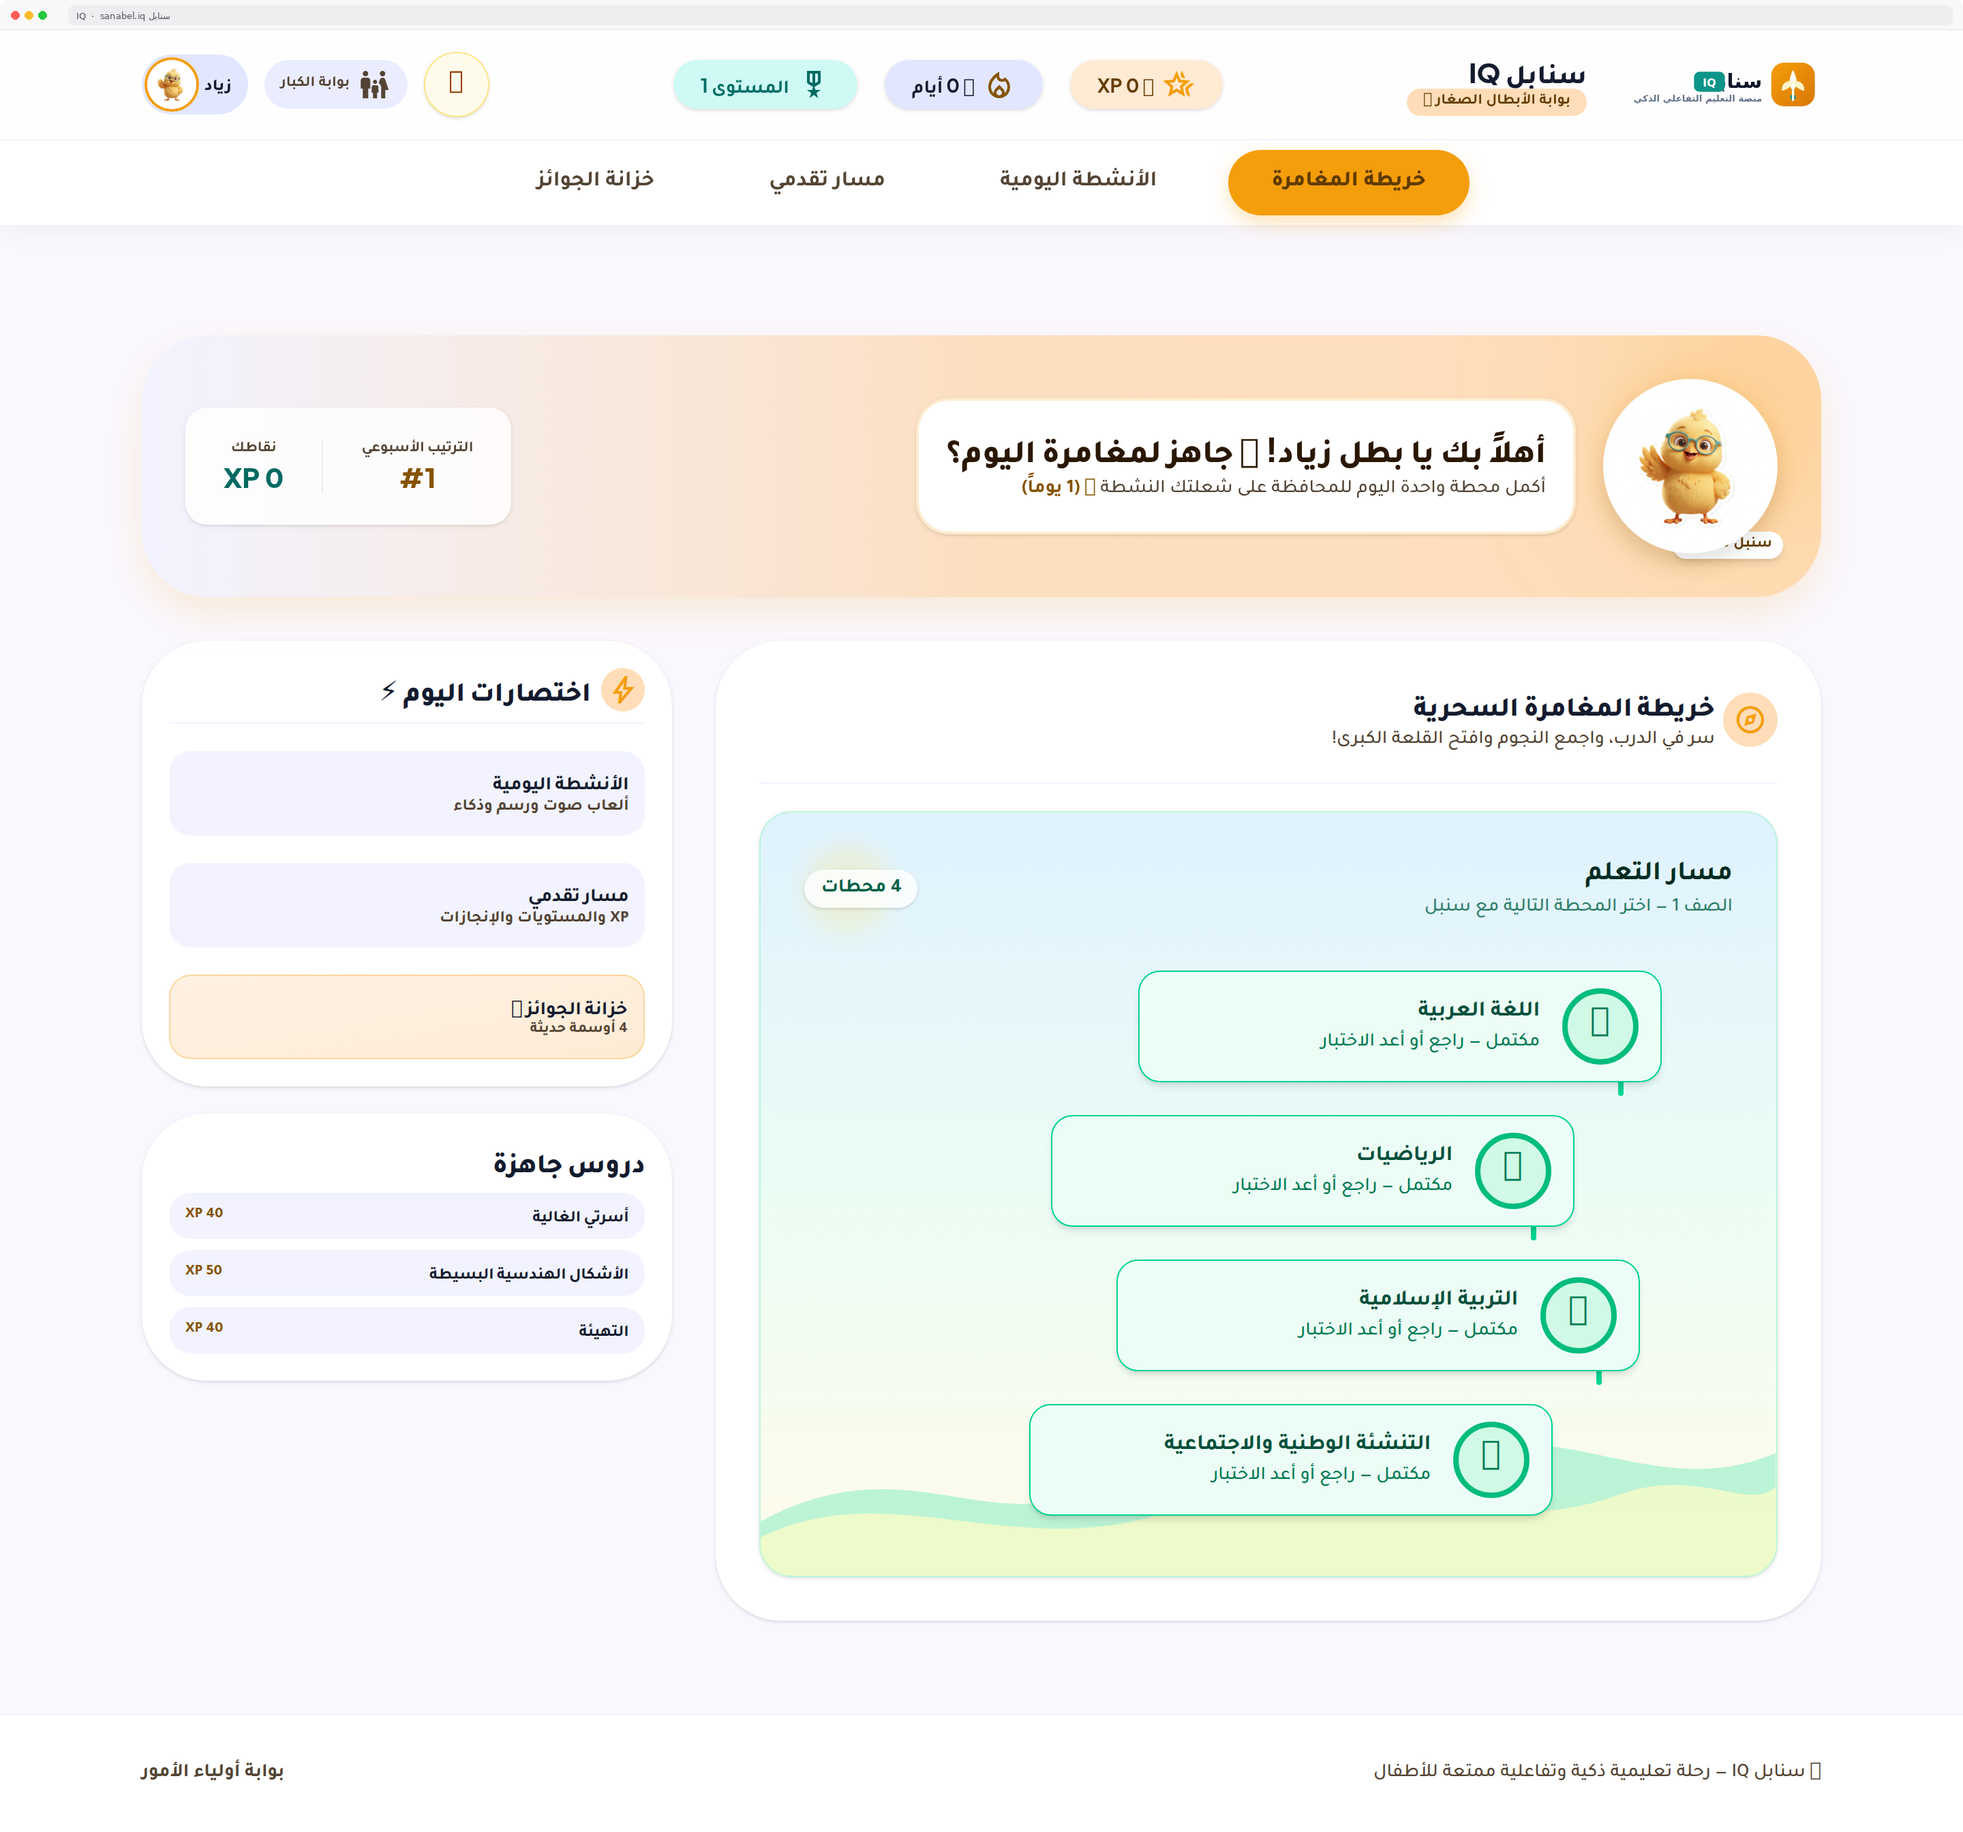
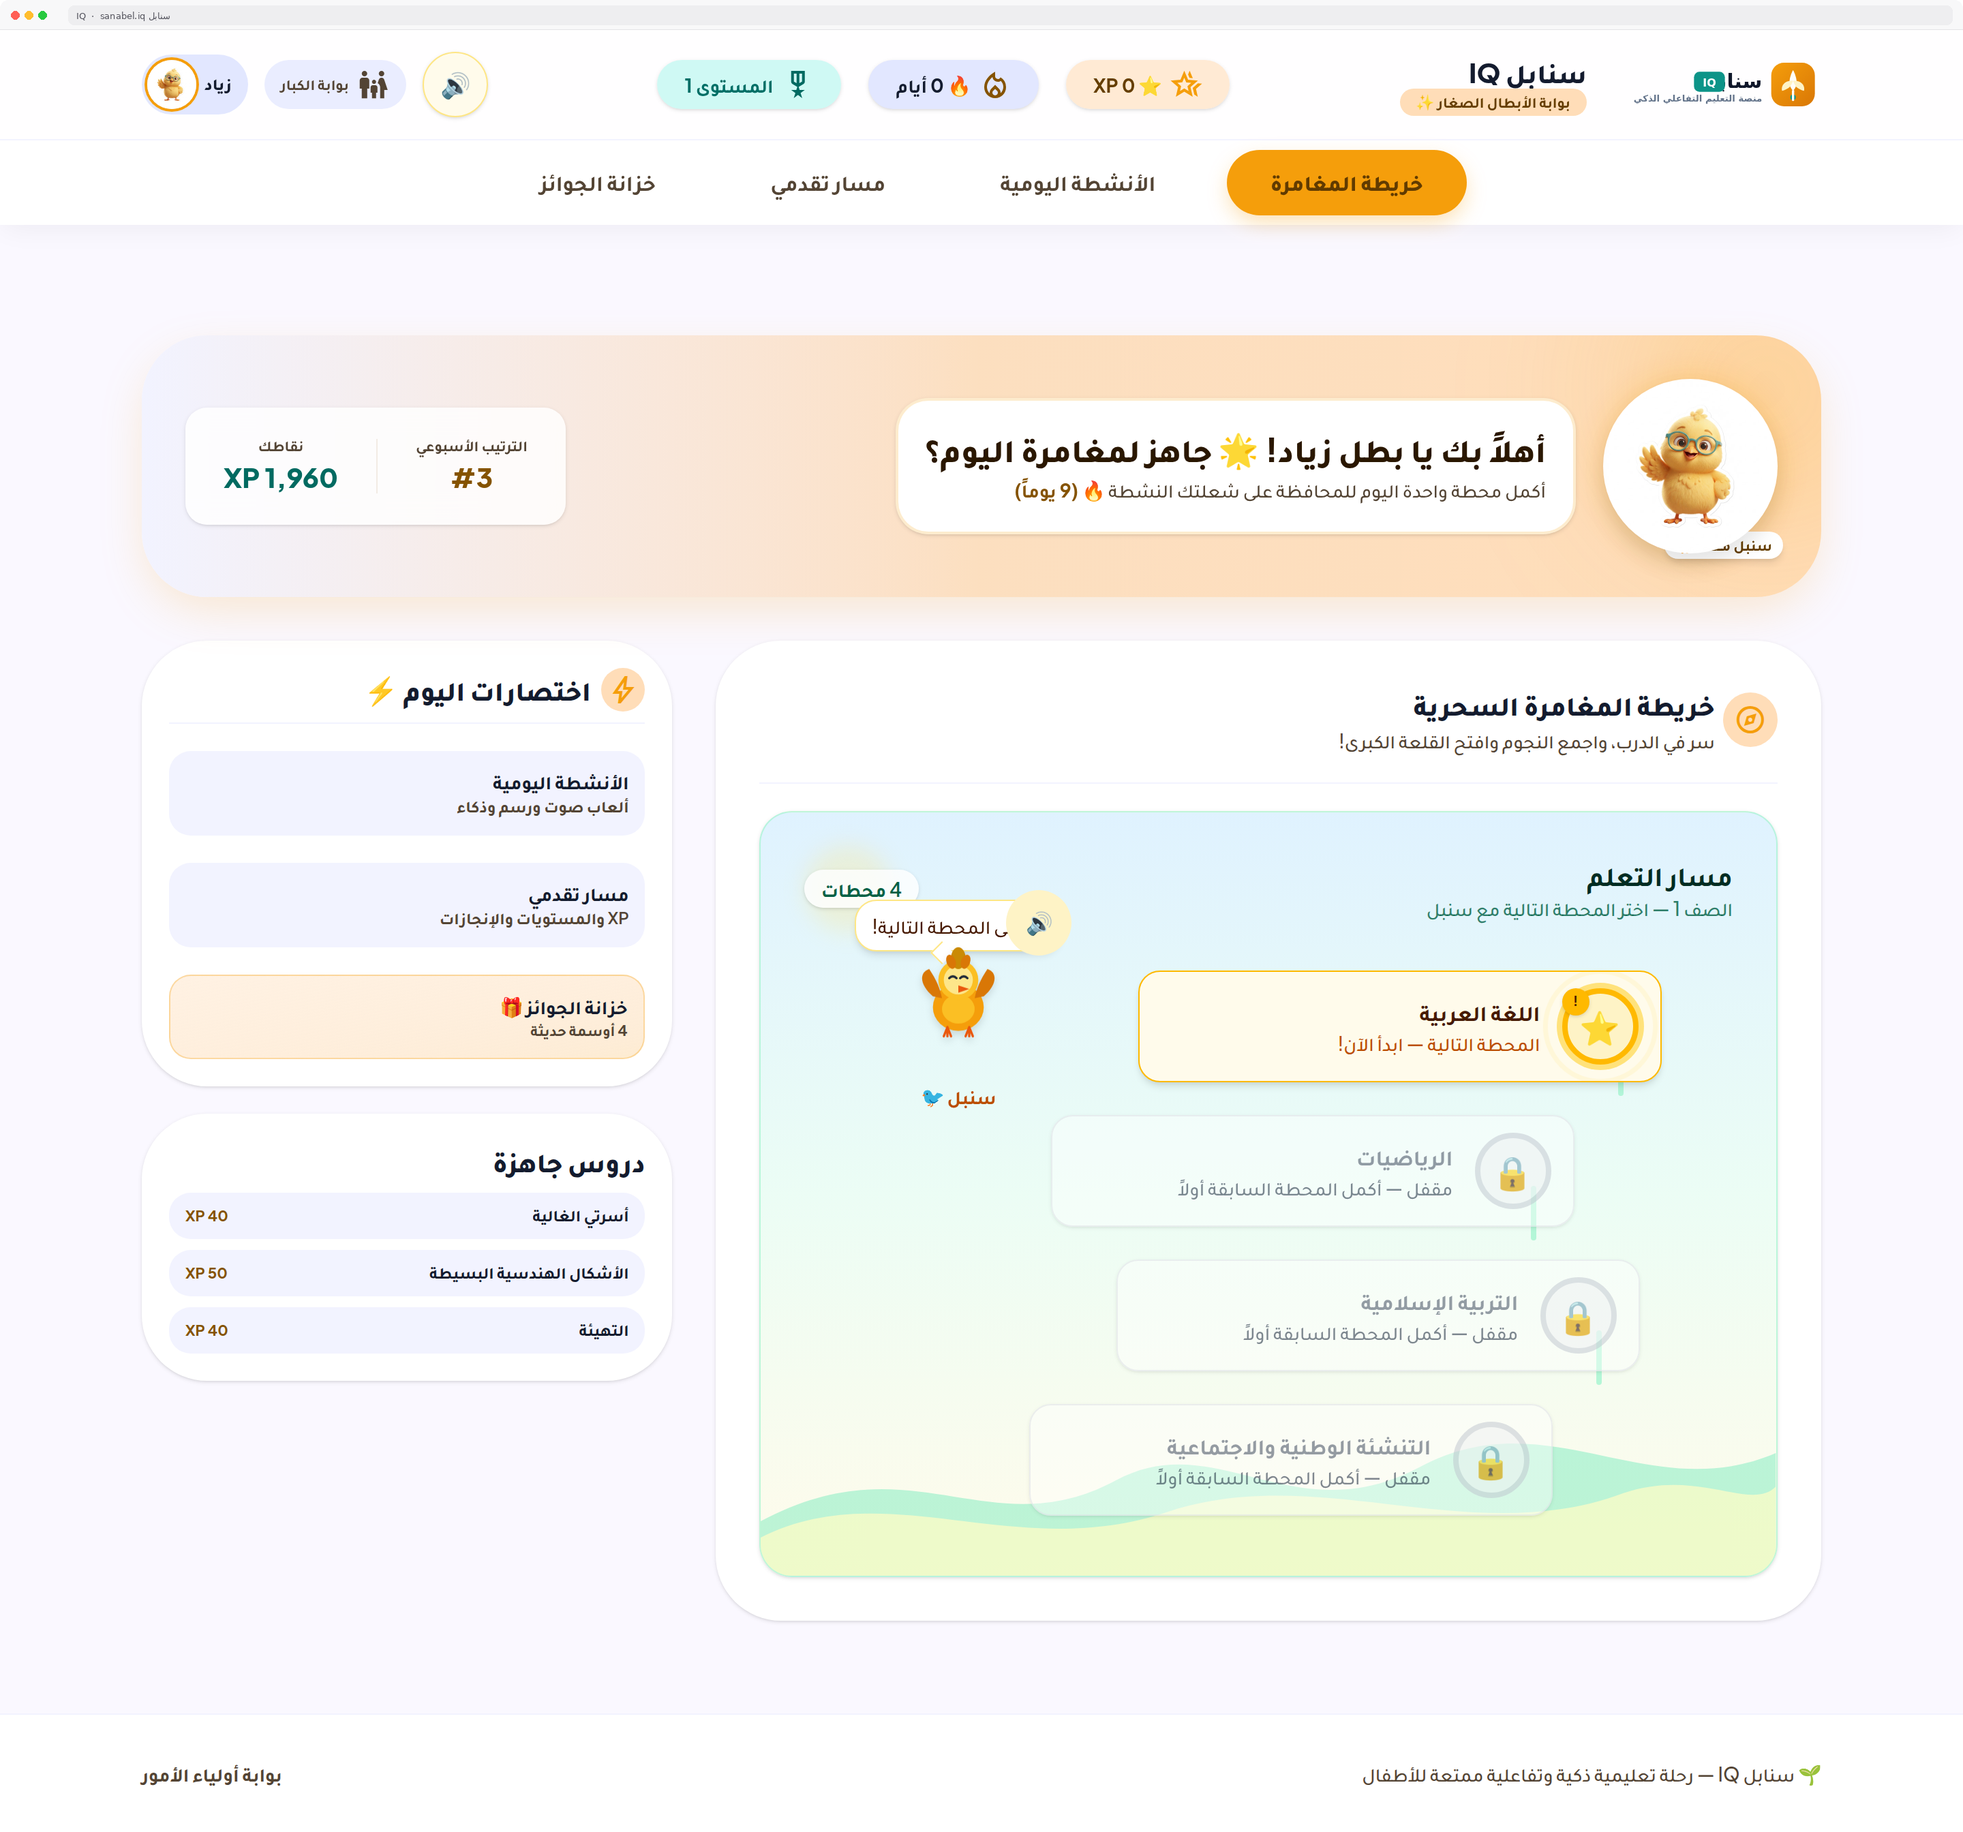
fix: restore CI for student shells, onboarding redirect, and quiz a11y
Parents without children redirect to onboarding again; dashboard embeds
Sonbol mascot; progress shows earned badges; quiz TTS keeps 48px targets
and سماع السؤال; update Arabic nav assertions and emoji-safe mockups.

diff --git a/resources/css/app.css b/resources/css/app.css
@@ -15,8 +15,8 @@
     --font-sans: 'Be Vietnam Pro', 'Tajawal', ui-sans-serif, system-ui, sans-serif, 'Apple Color Emoji',
         'Segoe UI Emoji', 'Segoe UI Symbol', 'Noto Color Emoji';
     --font-display: 'Plus Jakarta Sans', 'Tajawal', ui-sans-serif, system-ui, sans-serif;
-    --font-headline: 'Plus Jakarta Sans', 'Tajawal', ui-sans-serif, system-ui, sans-serif;
-    --font-body: 'Be Vietnam Pro', 'Tajawal', ui-sans-serif, system-ui, sans-serif;
+    --font-headline: 'Plus Jakarta Sans', 'Tajawal', 'Noto Color Emoji', 'Apple Color Emoji', 'Segoe UI Emoji', ui-sans-serif, system-ui, sans-serif;
+    --font-body: 'Be Vietnam Pro', 'Tajawal', 'Noto Color Emoji', 'Apple Color Emoji', 'Segoe UI Emoji', ui-sans-serif, system-ui, sans-serif;
     --font-label: 'Plus Jakarta Sans', 'Tajawal', ui-sans-serif, system-ui, sans-serif;
 
     /* Brand / Material 3 named colors from Stitch */

diff --git a/resources/views/livewire/student/quiz-runner.blade.php b/resources/views/livewire/student/quiz-runner.blade.php
@@ -134,7 +134,7 @@
                         </div>
                         <button
                             type="button"
-                            class="mt-space-md inline-flex items-center gap-space-xs px-space-lg py-space-sm rounded-full bg-secondary-container text-on-secondary-container font-label-lg text-label-lg font-bold shadow-md hover:scale-105 active:scale-95 transition-all"
+                            class="mt-space-md inline-flex min-h-12 min-w-12 items-center gap-space-xs px-space-lg py-space-sm rounded-full bg-secondary-container text-on-secondary-container font-label-lg text-label-lg font-bold shadow-md hover:scale-105 active:scale-95 transition-all"
                             data-tts-text="{{ $this->currentQuestion->prompt }}"
                             @if ($questionAudioUrl)
                                 data-static-audio="{{ $questionAudioUrl }}"
@@ -148,7 +148,7 @@
                                 if (url && audio.playStatic) { audio.playStatic(url, text); return; }
                                 audio.speakFast?.(text) ?? audio.speak?.(text);
                             })()"
-                            aria-label="استمع للسؤال بصوت سنبل"
+                            aria-label="سماع السؤال"
                         >
                             <span class="material-symbols-outlined text-secondary animate-pulse" style="font-variation-settings: 'FILL' 1;">volume_up</span>
                             <span>استمع للسؤال بصوت سنبل</span>
@@ -192,7 +192,7 @@
                                         data-static-audio="{{ $optionAudioUrl }}"
                                     @endif
                                     @class([
-                                        'w-full text-right p-space-lg rounded-lg flex items-center justify-between relative transition-transform transform active:translate-y-1 group disabled:cursor-not-allowed',
+                                        'w-full min-h-12 text-right p-space-lg rounded-lg flex items-center justify-between relative transition-transform transform active:translate-y-1 group disabled:cursor-not-allowed',
                                         'bg-secondary-container/40 text-on-secondary-container shadow-md' => $isCorrectReveal,
                                         'bg-error-container/50 text-on-error-container shadow-md' => $isWrongReveal,
                                         'bg-surface-container-lowest text-on-surface shadow-sm hover:bg-surface-container-low' => ! $isCorrectReveal && ! $isWrongReveal,

diff --git a/resources/views/student/dashboard/index.blade.php b/resources/views/student/dashboard/index.blade.php
@@ -5,22 +5,11 @@
             <div class="absolute -top-16 -right-16 w-52 h-52 bg-primary-container/20 rounded-full blur-3xl pointer-events-none"></div>
             <div class="relative z-10 flex flex-col md:flex-row items-center justify-between gap-space-md">
                 <div class="flex items-center gap-space-md flex-1">
-                    <div class="relative shrink-0">
-                        <div class="absolute inset-0 rounded-full bg-primary-container/30 blur-md animate-pulse"></div>
-                        <img alt="سنبل" class="relative z-10 w-24 h-24 md:w-32 md:h-32 object-cover rounded-full drop-shadow-xl" src="{{ asset('brand/mascot-sanbal.jpg') }}">
-                        <span class="absolute -bottom-1 -right-1 bg-surface-container-lowest px-2 py-0.5 rounded-full text-label-sm font-bold text-on-primary-fixed-variant shadow-md">سنبل معك 🐥</span>
-                    </div>
-                    <div class="space-y-space-xs">
-                        <div class="relative bg-surface-container-lowest text-on-surface p-space-md rounded-2xl md:rounded-3xl shadow-sm border-2 border-primary-container/20">
-                            <p class="font-headline-sm text-headline-sm md:text-headline-md text-on-primary-fixed leading-tight font-extrabold">
-                                أهلاً بك يا بطل {{ $student->name }}! 🌟 جاهز لمغامرة اليوم؟
-                            </p>
-                            <p class="font-body-sm text-body-sm text-on-surface-variant mt-1">
-                                أكمل محطة واحدة اليوم للمحافظة على شعلتك النشطة
-                                <span class="text-primary font-bold">🔥 ({{ $streakDays }} يوماً)</span>
-                            </p>
-                        </div>
-                    </div>
+                    <x-student.mascot
+                        state="happy"
+                        size="lg"
+                        :message="'أهلاً بك يا بطل '.$student->name.'! 🌟 جاهز لمغامرة اليوم؟ أكمل محطة واحدة اليوم للمحافظة على شعلتك النشطة 🔥 ('.$streakDays.' يوماً)'"
+                    />
                 </div>
                 <div class="w-full md:w-auto shrink-0 bg-surface-container-lowest/80 backdrop-blur-md p-space-md rounded-2xl shadow-sm flex items-center justify-around gap-space-md">
                     <div class="text-center px-2">

diff --git a/scripts/batch_capture_mockups.py b/scripts/batch_capture_mockups.py
@@ -20,6 +20,7 @@ OUT = ROOT / "docs/marketing/feature-mockups"
 COMPOSE = ROOT / "scripts/compose_screely_mockup.py"
 CHROME = Path.home() / ".cache/ms-playwright/chromium-1243/chrome-linux64/chrome"
 BASE = "http://localhost"
+EMOJI_FONT = Path.home() / ".local/share/fonts/NotoColorEmoji.ttf"
 
 PARENT_EMAIL = "parent@sanabel.test"
 PARENT_PASSWORD = "password"
@@ -115,6 +116,33 @@ def new_context(browser: Browser) -> BrowserContext:
         device_scale_factor=2,
         locale="ar",
         ignore_https_errors=True,
+    )
+
+
+def ensure_emoji_fonts() -> None:
+    """Headless Chromium shows tofu □ for emoji without a color emoji font."""
+    if EMOJI_FONT.is_file():
+        return
+    print(
+        "WARNING: Noto Color Emoji missing — install to ~/.local/share/fonts/\n"
+        "  apt-get download fonts-noto-color-emoji && dpkg-deb -x …\n"
+        "Otherwise celebration/marketing shots will show empty rectangles.",
+        file=sys.stderr,
+    )
+
+
+def inject_emoji_font_fallback(page: Page) -> None:
+    """Force emoji glyph fallback even when UI fonts lack emoji coverage."""
+    page.add_style_tag(
+        content="""
+        :root, body, [data-quiz-celebration], .font-headline-lg, .font-headline-md,
+        .font-headline-sm, .font-body-lg, .font-body-md, .font-body-sm, .font-label-lg,
+        .font-label-md, .font-label-sm {
+            font-family: 'Plus Jakarta Sans', 'Be Vietnam Pro', 'Tajawal',
+                'Noto Color Emoji', 'Apple Color Emoji', 'Segoe UI Emoji',
+                ui-sans-serif, system-ui, sans-serif !important;
+        }
+        """
     )
 
 
@@ -223,6 +251,7 @@ def login_child(page: Page) -> None:
 def capture_shot(page: Page, shot: Shot) -> Path:
     page.goto(f"{BASE}{shot.url}", wait_until="domcontentloaded", timeout=60_000)
     wait_ready(page, shot.settle_ms)
+    inject_emoji_font_fallback(page)
     page.evaluate("() => window.scrollTo(0,0)")
     page.wait_for_timeout(200)
     raw = OUT / f"_raw-{shot.file}"
@@ -367,6 +396,7 @@ def main() -> None:
     if not CHROME.is_file():
         raise SystemExit(f"Chromium missing: {CHROME}")
 
+    ensure_emoji_fonts()
     OUT.mkdir(parents=True, exist_ok=True)
     print("Resolving dynamic IDs…")
     ids = resolve_ids()

diff --git a/resources/views/student/progress/index.blade.php b/resources/views/student/progress/index.blade.php
@@ -87,6 +87,28 @@
 
         <section class="bg-surface-container-lowest rounded-xl p-space-lg shadow-sm">
             <div class="flex items-center gap-space-xs mb-space-md">
+                <span class="material-symbols-outlined text-primary text-2xl">military_tech</span>
+                <h2 class="font-headline-sm text-headline-sm font-extrabold text-on-surface">أوسمتي المفتوحة</h2>
+            </div>
+            <div class="grid grid-cols-1 sm:grid-cols-2 gap-space-md">
+                @forelse ($badges->where('unlocked', true) as $entry)
+                    <div class="bg-surface-container-low rounded-lg p-space-md flex items-center gap-space-md">
+                        <div class="w-12 h-12 rounded-full bg-primary-fixed text-primary flex items-center justify-center shrink-0">
+                            <span class="material-symbols-outlined text-2xl" style="font-variation-settings: 'FILL' 1;">{{ $entry['badge']->icon ?: 'military_tech' }}</span>
+                        </div>
+                        <div class="min-w-0">
+                            <span class="font-headline-sm text-headline-sm font-bold text-on-surface block truncate">{{ $entry['badge']->name_ar }}</span>
+                            <span class="font-body-sm text-body-sm text-on-surface-variant">{{ $entry['badge']->description_ar }}</span>
+                        </div>
+                    </div>
+                @empty
+                    <p class="font-body-md text-body-md text-on-surface-variant sm:col-span-2">لا أوسمة بعد — أكمل نشاطاً لفتح أول وسام!</p>
+                @endforelse
+            </div>
+        </section>
+
+        <section class="bg-surface-container-lowest rounded-xl p-space-lg shadow-sm">
+            <div class="flex items-center gap-space-xs mb-space-md">
                 <span class="material-symbols-outlined text-primary text-2xl">task_alt</span>
                 <h2 class="font-headline-sm text-headline-sm font-extrabold text-on-surface">آخر الإنجازات</h2>
             </div>

diff --git a/tests/Feature/StudentLayoutAndLocaleTest.php b/tests/Feature/StudentLayoutAndLocaleTest.php
@@ -66,8 +66,10 @@ class StudentLayoutAndLocaleTest extends TestCase
         $this->assertSame('ar', app()->getLocale());
 
         $response->assertSee('الأنشطة');
-        $response->assertSee('التقدم');
-        $response->assertSee('الشارات');
+        $response->assertSee('تقدمي');
+        $response->assertSee('جوائزي');
         $response->assertSee('الخريطة');
+        $response->assertSee('مسار تقدمي');
+        $response->assertSee('خزانة الجوائز');
     }
 }

diff --git a/tests/Feature/StudentGamificationTest.php b/tests/Feature/StudentGamificationTest.php
@@ -256,7 +256,7 @@ class StudentGamificationTest extends TestCase
 
         $response->assertOk()
             ->assertViewIs('student.progress.index')
-            ->assertSee('Level 3')
+            ->assertSee('المستوى 3')
             ->assertSee('250')
             ->assertSee('البداية المشرقة')
             ->assertSee('نشاط الرياضيات')

diff --git a/app/Support/AuthRedirectResolver.php b/app/Support/AuthRedirectResolver.php
@@ -23,6 +23,10 @@ class AuthRedirectResolver
             return '/student';
         }
 
+        if ($user->isParent() && $user->students()->doesntExist()) {
+            return '/onboarding/child';
+        }
+
         return '/parent';
     }
 
